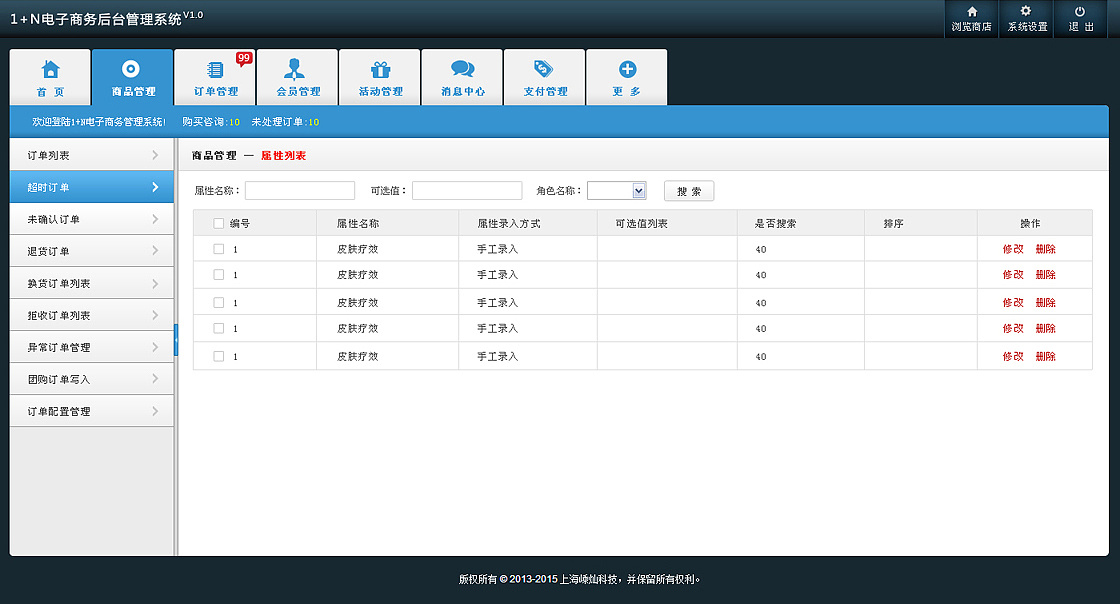
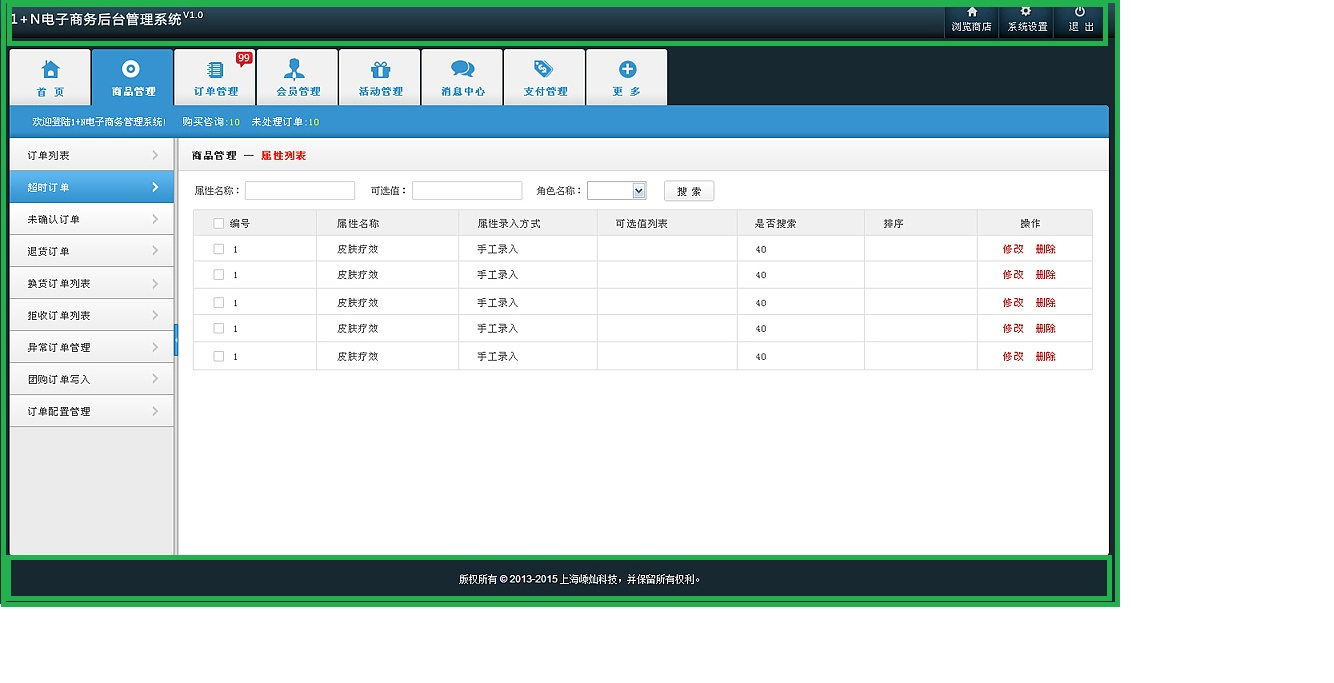
UPDATE:header

diff --git a/src/router/index.js b/src/router/index.js
@@ -8,16 +8,19 @@ const routes = [
   {
     path: '/',
     name: 'Home',
-    component: Home
+    component: Home,
+    // meta:{
+
+    // }
   },
-  {
-    path: '/about',
-    name: 'About',
-    // route level code-splitting
-    // this generates a separate chunk (about.[hash].js) for this route
-    // which is lazy-loaded when the route is visited.
-    component: () => import(/* webpackChunkName: "about" */ '../views/About.vue')
-  }
+  // {
+  //   path: '/about',
+  //   name: 'About',
+  //   // route level code-splitting
+  //   // this generates a separate chunk (about.[hash].js) for this route
+  //   // which is lazy-loaded when the route is visited.
+  //   component: () => import(/* webpackChunkName: "about" */ '../views/About.vue')
+  // }
 ]
 
 const router = new VueRouter({

diff --git a/src/components/MyHeader.vue b/src/components/MyHeader.vue
@@ -1,0 +1,29 @@
+<template>
+  <header class="my-header">
+    <div class="header-box clearfix">
+      <div class="logo">
+        <img src="../assets/img/logo/logo.png" alt="">
+      </div>
+      <div class="operation">
+        <div class="clearfix">
+          <a href="javascript:;">
+            <img src="" alt="">
+            <span>浏览商店</span>
+          </a>
+          <a href="javascript:;">
+            <img src="" alt="">
+            <span>系统设置</span>
+          </a>
+          <a href="javascript:;">
+            <img src="" alt="">
+            <span>退出</span>
+          </a>
+        </div>
+      </div>
+    </div>
+  </header>
+</template>
+
+<style lang="scss">
+  @import "../assets/css/myheader.scss"
+</style>

diff --git a/src/App.vue b/src/App.vue
@@ -1,12 +1,24 @@
 <template>
   <div id="app">
-    <div id="nav">
-      <router-link to="/">Home</router-link> |
-      <router-link to="/about">About</router-link>
-    </div>
-    <router-view/>
+    <!-- 页头 -->
+    <my-header></my-header>
+    <router-view></router-view>
+    <!-- 页尾 -->
+    <my-footer></my-footer>
   </div>
 </template>
+
+<script>
+import MyHeader from "./components/MyHeader.vue"
+import MyFooter from "./components/MyFooter.vue"
+  export default({
+    components:{
+      MyHeader,
+      MyFooter
+    }
+  })
+</script>
+
 
 <style lang="scss">
 #app {

diff --git a/src/assets/css/myheader.scss b/src/assets/css/myheader.scss
@@ -1,0 +1,32 @@
+.my-header{
+  width: 100vw;
+  min-width: 1000px;
+  position: fixed;
+  top: 0;
+  .header-box{
+    width: 100%;
+    box-sizing: border-box;
+    padding: 15px;
+    background-color: #1d303b;
+    .logo{
+      float: left;
+      width: 150px;
+      & > img {
+        width: 100%;
+      }
+    }
+    .operation{
+      & > div{
+        float: right;
+      }
+      a{
+        float: left;
+        color: #FFF;
+        display: block;
+        width: 80px;
+        text-align: center;
+        border: 1px solid #1d303b;
+      }
+    }
+  }
+}

diff --git a/public/css/cssReset.css b/public/css/cssReset.css
@@ -1,0 +1,28 @@
+* {
+    margin: 0;
+    padding: 0;
+}
+ul, ol {
+    list-style: none;
+}
+input,button {
+    outline: none;
+    border: none;
+}
+a {
+    text-decoration: none;
+    color: #000;
+}
+.center {
+    width: 1000px;
+    margin: 0 auto;
+}
+.clearfix::after{
+    content: "";
+    display: block;
+    clear:both;
+}
+html {
+    font-family:Tahoma,Arial,"Helvetica Neue","Hiragino Sans GB",Simsun,sans-self; 
+    font-size: 16px;
+  }

diff --git a/src/views/Home.vue b/src/views/Home.vue
@@ -1,18 +1,3 @@
 <template>
-  <div class="home">
-    <img alt="Vue logo" src="../assets/logo.png">
-    <HelloWorld msg="Welcome to Your Vue.js App"/>
-  </div>
+  
 </template>
-
-<script>
-// @ is an alias to /src
-import HelloWorld from '@/components/HelloWorld.vue'
-
-export default {
-  name: 'Home',
-  components: {
-    HelloWorld
-  }
-}
-</script>

diff --git a/public/index.html b/public/index.html
@@ -5,6 +5,7 @@
     <meta http-equiv="X-UA-Compatible" content="IE=edge">
     <meta name="viewport" content="width=device-width,initial-scale=1.0">
     <link rel="icon" href="<%= BASE_URL %>favicon.ico">
+    <link rel="stylesheet" href="./css/cssReset.css">
     <title><%= htmlWebpackPlugin.options.title %></title>
   </head>
   <body>

diff --git a/src/components/MyFooter.vue b/src/components/MyFooter.vue
@@ -1,0 +1,13 @@
+<template>
+  <div class="my-footer">
+    <footer>
+      <div class="footer-box">
+        
+      </div>
+    </footer>
+  </div>
+</template>
+
+<style lang="sass">
+  @import "../assets/css/myfooter.scss"
+</style>

diff --git a/src/assets/css/myfooter.scss b/src/assets/css/myfooter.scss
@@ -1,0 +1,11 @@
+.my-footer{
+  footer{
+    position: fixed;
+    bottom: 0;
+    
+    .footer-box{
+      background-color: #1d303b;
+
+    }
+  }
+}
